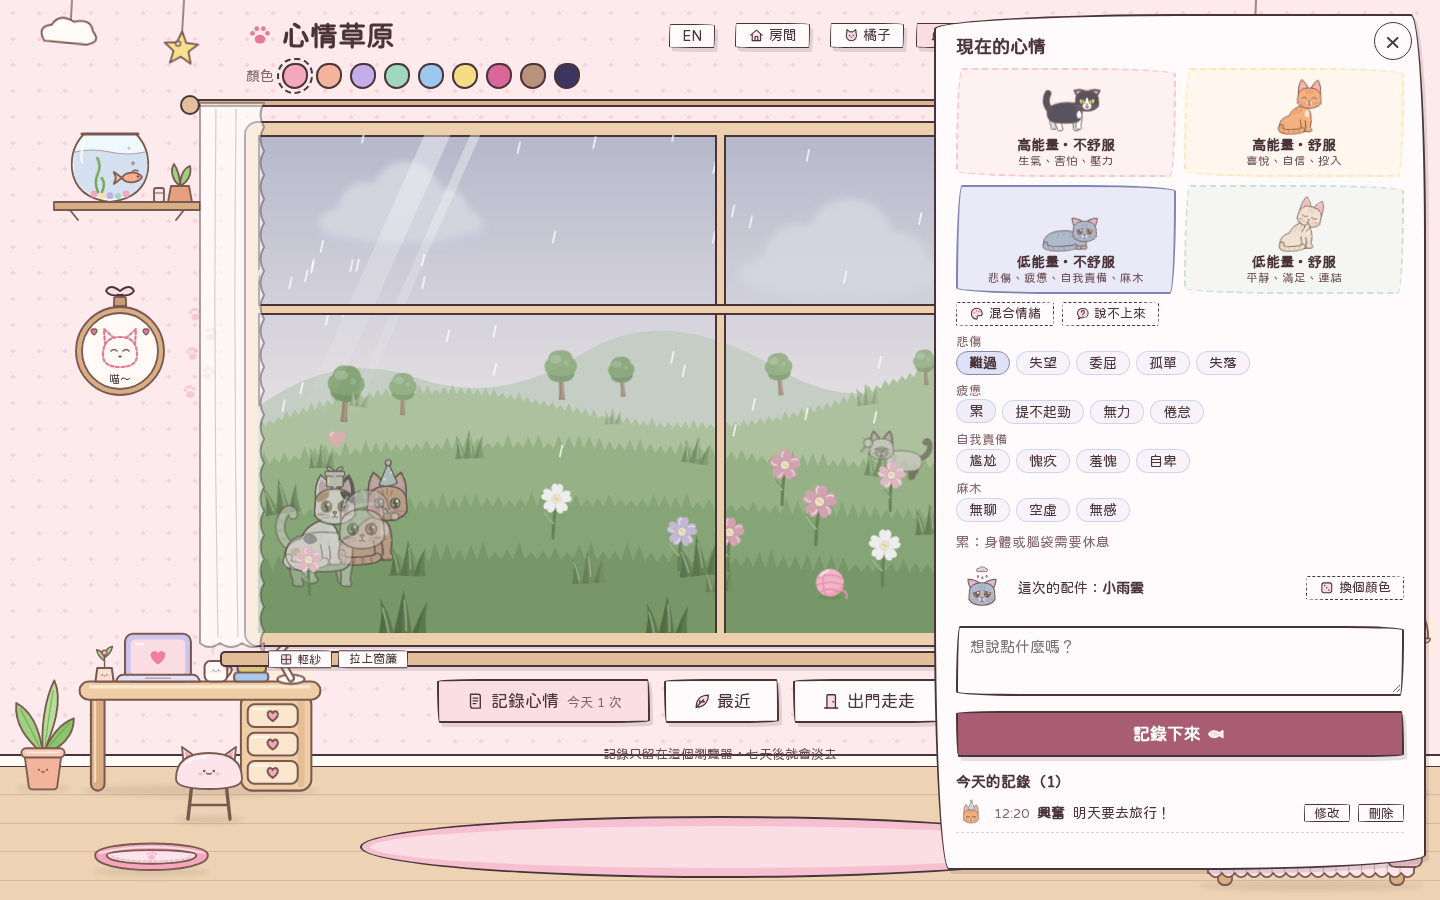
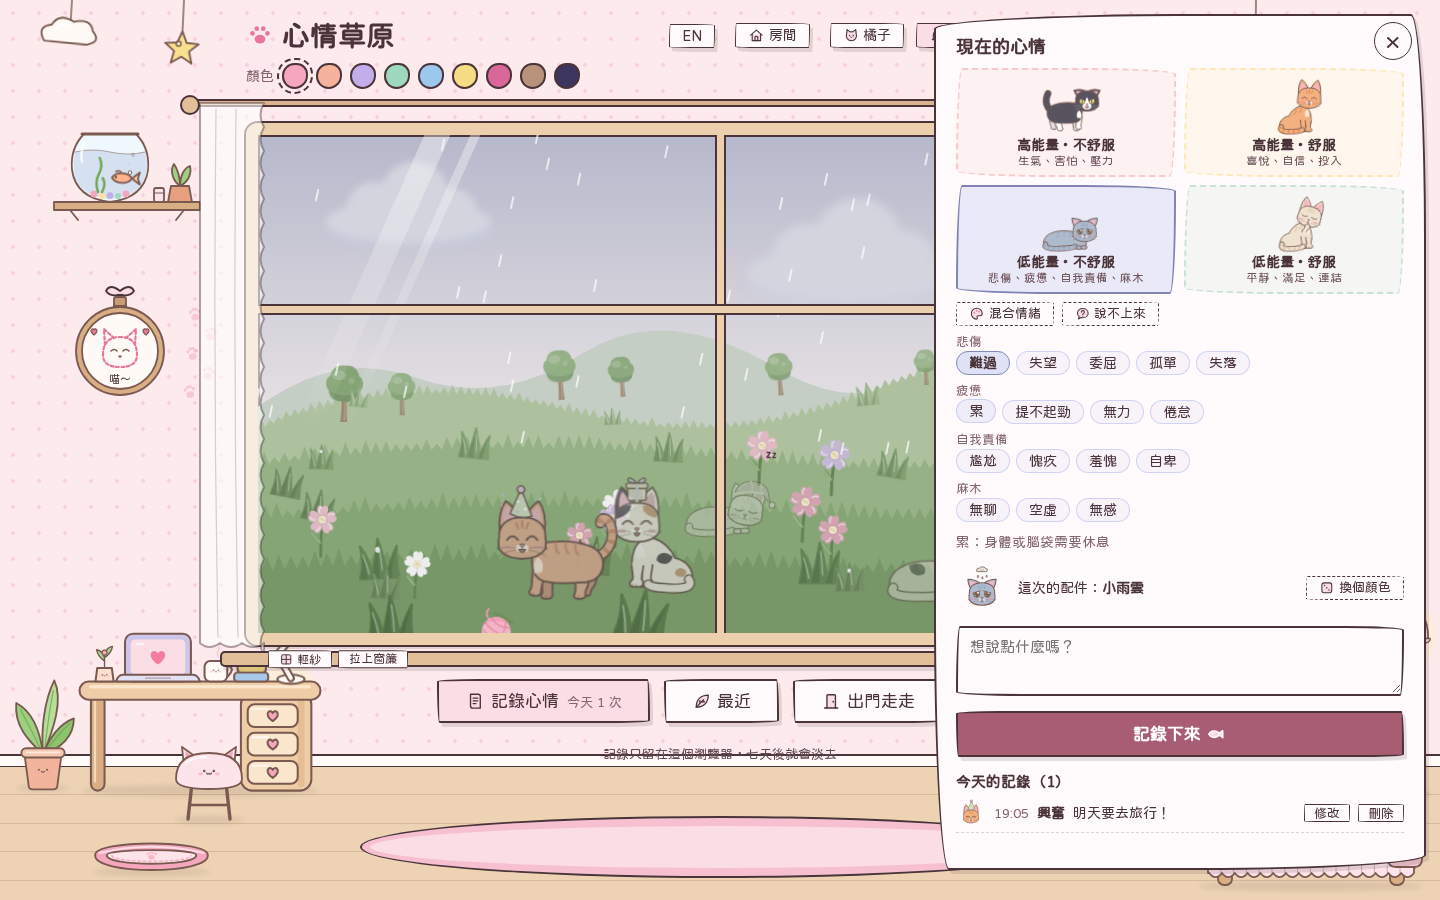
style: redraw grass

diff --git a/index.html b/index.html
@@ -2251,10 +2251,12 @@ function addDeco(html, left, bottom, w) {
 });
 // 三片尖尖葉子的草叢（實心），fill 是顏色、tilt 讓每叢草歪的方向不太一樣
 // 插畫風草叢：每片葉子左半邊深一點、右半邊淺一點，再加一道亮光
-const grass = (fill, tilt = 0) => `<svg viewBox="0 0 30 24" style="transform:rotate(${tilt}deg)"><path d="M3 24 Q6 13 4 4 Q10 13 11.5 24Z M10 24 Q13.5 9 15 0 Q18 10 20 24Z M18.5 24 Q22 13 26.5 5 Q25 15 27 24Z"
-  fill="${fill}"/>
+// 草叢：葉尖磨圓一點（同色的圓角描邊）；dew = 葉子上掛一顆圓圓的小露珠
+const grass = (fill, tilt = 0, dew = false) => `<svg viewBox="0 0 30 24" overflow="visible" style="transform:rotate(${tilt}deg)"><path d="M3 24 Q6 13 4 4 Q10 13 11.5 24Z M10 24 Q13.5 9 15 0 Q18 10 20 24Z M18.5 24 Q22 13 26.5 5 Q25 15 27 24Z"
+  fill="${fill}" stroke="${fill}" stroke-width="1.6" stroke-linejoin="round"/>
   <path d="M3 24 Q6 13 4 4 Q6.6 14 7.6 24Z M10 24 Q13.5 9 15 0 Q14.4 12 15 24Z M18.5 24 Q22 13 26.5 5 Q22.6 15 22.6 24Z" fill="#000" fill-opacity=".1"/>
-  <path d="M15.6 5 Q16.6 12 16.8 19 M5.4 9 Q7.6 15 8.6 21" fill="none" stroke="#fff" stroke-opacity=".35" stroke-width="1" stroke-linecap="round"/></svg>`;
+  <path d="M15.6 5 Q16.6 12 16.8 19 M5.4 9 Q7.6 15 8.6 21" fill="none" stroke="#fff" stroke-opacity=".35" stroke-width="1" stroke-linecap="round"/>
+  ${dew ? `<ellipse cx="14.6" cy="6.6" rx="1.4" ry="1.7" fill="#f4fbff" opacity=".55"/><circle cx="14.3" cy="6.1" r=".45" fill="#fff" opacity=".7"/>` : ""}</svg>`;
 // 算出草地分界線在某個水平位置的高度（照背景 SVG 裡的曲線，M → Q → T… 的寫法）
 function curveY(d) {
   const nums = d.match(/-?[\d.]+/g).map(Number), pts = [];
@@ -2311,10 +2313,10 @@ for (let x = 4 + rand() * 8; x < 100; x += 16 + rand() * 12) {   // 中間山丘
   t.innerHTML = grass("#9fc887", rand() * 16 - 8);
   farTufts.appendChild(t);
 }
-for (let x = 2 + rand() * 10; x < 100; x += 15 + rand() * 12) addDeco(grass("#7fb164", rand() * 16 - 8), x, (nearEdge(x) - 2.4) * 2.9, 17 + rand() * 6);    // 近處草地的邊緣
-for (let i = 0; i < 4; i++) addDeco(grass("#729f58", rand() * 16 - 8), rand() * 97, (5 + rand() * 22) * 2.9, 20 + rand() * 7);   // 散在草地上
-for (let x = 6 + rand() * 10; x < 100; x += 20 + rand() * 14) addDeco(grass("#5f9448", rand() * 14 - 7), x, (frontEdge(x) - 3.2) * 2.9, 24 + rand() * 6);   // 最前面那條草地的邊緣
-for (let x = 3 + rand() * 12; x < 100; x += 24 + rand() * 16) addDeco(grass("#54893f", rand() * 12 - 6), x, -6, 30 + rand() * 8);   // 最底下、最靠近你的一排
+for (let x = 2 + rand() * 10; x < 100; x += 15 + rand() * 12) addDeco(grass("#7fb164", rand() * 16 - 8, rand() < .25), x, (nearEdge(x) - 2.4) * 2.9, 17 + rand() * 6);    // 近處草地的邊緣
+for (let i = 0; i < 4; i++) addDeco(grass("#729f58", rand() * 16 - 8, rand() < .25), rand() * 97, (5 + rand() * 22) * 2.9, 20 + rand() * 7);   // 散在草地上
+for (let x = 6 + rand() * 10; x < 100; x += 20 + rand() * 14) addDeco(grass("#5f9448", rand() * 14 - 7, rand() < .25), x, (frontEdge(x) - 3.2) * 2.9, 24 + rand() * 6);   // 最前面那條草地的邊緣
+for (let x = 3 + rand() * 12; x < 100; x += 24 + rand() * 16) addDeco(grass("#54893f", rand() * 12 - 6, rand() < .25), x, -6, 30 + rand() * 8);   // 最底下、最靠近你的一排
 const flowerColors = ["#f7a8c0", "#ffffff", "#d7c2f2", "#f7a8c0", "#ffc2d4"];
 for (let i = 0; i < 12; i++) addDeco(flower(flowerColors[i % 5]), rand() * 95, rand() * 90, 16 + rand() * 6);
 [0, -30, -58].forEach((delay, i) => {
